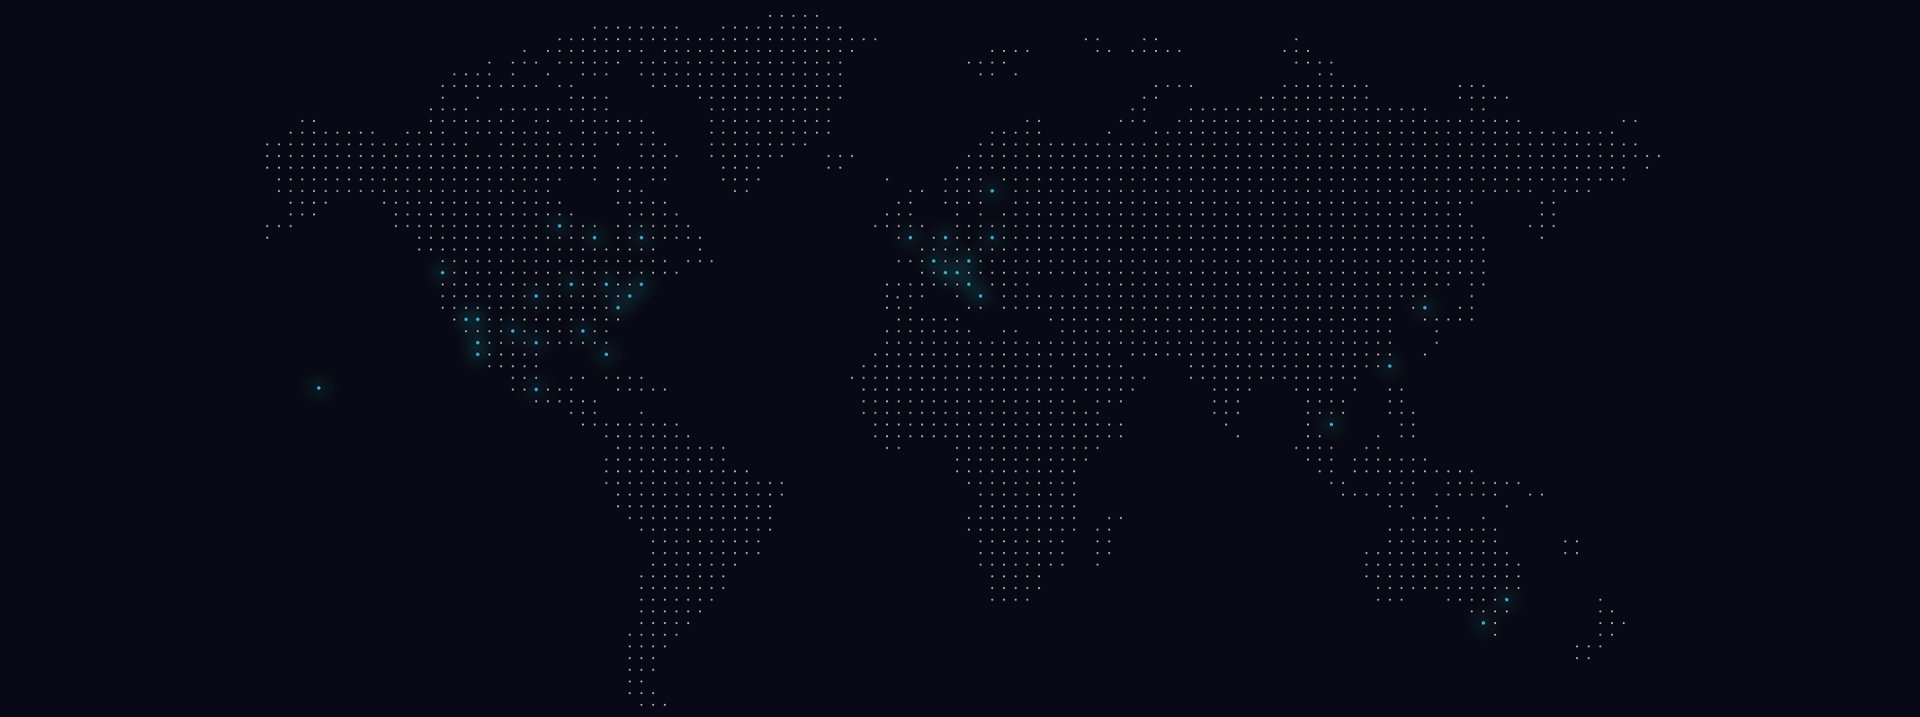
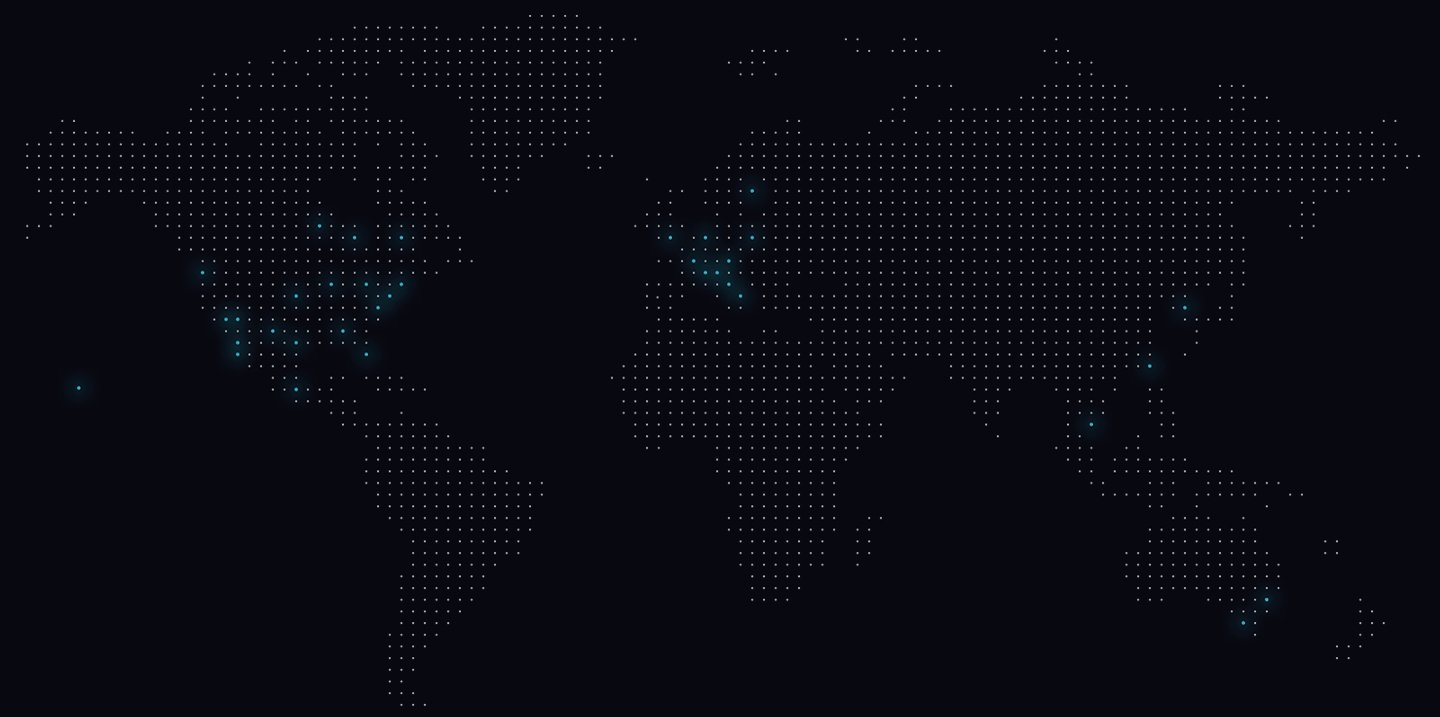
After using the SASS

diff --git a/src/index.html b/src/index.html
@@ -7,7 +7,7 @@
     <link rel="stylesheet" href="css/bootstrap-grid.min.css">
     <link rel="stylesheet" href="css/bootstrap-reboot.min.css">
     <link rel="stylesheet" href="css/fonts.css">
-    <link rel="stylesheet" href="css/style.css">
+    <link rel="stylesheet" href="css/style.min.css">
 </head>
 <body>
    <header>
@@ -70,10 +70,8 @@
    </section>
    <section class="reasons">
         <div class="container">
-            <div class="advantages">
-                <h2 class="advantages_header">преимущества</h2>
-            </div>
-            <h2 class="reasons_header">8 причин начать работать с нами</h2>
+            <div class="label">преимущества</div>
+            <div class="header">8 причин начать работать с нами</div>
             <div class="row">
                 <div class="col-md-6">
                     <div class="reasons_item">
@@ -162,6 +160,138 @@
                 </div>
             </div>
         </div>
+   </section>
+
+   <section class="app">
+    <div class="container">
+        <div class="label">Возможности</div>
+        <div class="header">мобильное приложение убер</div>
+        <div class="subtitle">Сделайте заказ, совершите поездку и оплатите ее стоимость, используя свой мобильный телефон</div>
+    
+        <div class="row">
+            <div class="col-md-4">
+                <div class="app_item app_item_1">
+                    <div class="app_item_subheader">оформление заказа одним касанием</div>
+                    <div class="app_item_plus"></div>
+                </div>
+            </div>
+            <div class="col-md-4">
+                <div class="app_item app_item_2">
+                    <div class="app_item_subheader">надежная подача</div>
+                    <div class="app_item_plus"></div>
+                </div>
+            </div>
+            <div class="col-md-4">
+                <div class="app_item app_item_3">
+                    <div class="app_item_subheader">прозрачные цены</div>
+                    <div class="app_item_plus"></div>
+                </div>
+            </div>
+       
+            <div class="col-md-4">
+                <div class="app_item app_item_4">
+                    <div class="app_item_subheader">безналичная оплата</div>
+                    <div class="app_item_plus"></div>
+                </div>
+            </div>
+            <div class="col-md-4">
+                <div class="app_item app_item_5">
+                    <div class="app_item_subheader">обратная связь</div>
+                    <div class="app_item_plus"></div>
+                </div>
+            </div>
+            <div class="col-md-4">
+                <div class="app_item app_item_6">
+                    <div class="app_item_subheader">разделить стоимость поездки</div>
+                    <div class="app_item_plus"></div>
+                </div>
+            </div>
+        </div>
+    </div>
+   </section>
+
+   <section class="car">
+    <div class="container">
+        <div class="label">Возможности</div>
+        <div class="header">Выбор - отличная штука!</div>
+        <div class="subtitle">Закажите автомобиль, который подходит вам по стилю и бюджету</div>
+        <img src="img/car_bg.png" alt="car" class="car_img">
+        <div class="car_descr">Машины на каждый день. <br>
+            Лучше, быстрее и дешевле, чем такси</div>
+    </div>
+   </section>
+
+   <section class="require">
+    <div class="container">
+        <div class="label">Возможности</div>
+        <div class="header">условия и требования</div> 
+
+        <div class="row">
+                <div class="col-md-6">
+                    <div class="require_block">
+                        <div class="require_title">УСЛОВИЯ: со своим авто:</div>
+                        <ul class="require_list">
+                            <li>Подключаем к системе UBER  под 10%.</li>
+                            <li>Ни каких взносов  0%!</li>
+                            <li>Можем подключать удаленно без приезда в офис</li>
+                            <li>ИП не требуется</li>
+                            <li>Заказы распределяются без учета рейтинга ближайшим водителям</li>
+                            <li>Работа только по безналичному расчету</li>
+                            <li>Деньги перечисляем на карту водителю или наличными в офисе</li>
+                        </ul>
+                        <div class="require_descr">
+                            В день заработок составляет 7000-12000р + бонус 3000т рублей
+                        </div>
+                    </div>
+            </div>
+                <div class="col-md-6">
+                    <div class="require_block">
+                        <div class="require_title">УСЛОВИЯ: на авто компании:</div>
+                        <ul class="require_list">
+                            <li>Предоставляем авто без залога</li>
+                            <li>Без ежедневных выплат по аренде</li>
+                            <li>Среда пятница и суббота работа на компанию остальные дни вы работаете на себя</li>
+                        </ul>
+                    </div>
+                </div> 
+                <div class="col-md-6">
+                    <div class="require_block require_block_nmb warning">
+                        <div class="require_title">ТРЕБОВАНИЕ:</div>
+                        <ul class="require_list">
+                            <li>Наличие автомобиля без рекламы</li>
+                            <li>Автомобиль не должен быть желтый и не с желтыми номерами</li>
+                            <li>Машина не старше 3 лет</li>
+                            <li>Стаж вождения не менее 3 лет</li>
+                            <li>Дивайс на системе андроид 4.0и выше(самсунг)</li>
+                        </ul>
+                    </div>
+                </div>
+                <div class="col-md-6">
+                    <div class="require_block require_block_nmb warning">
+                        <div class="require_title">ДОКУМЕНТЫ:</div>
+                        <ul class="require_list">
+                            <li>Права 2 стороны</li>
+                            <li>Паспорт лицевая сторона</li>
+                            <li>СтС</li>
+                            <li>Лицензия( если есть)</li>
+                            <li>Номер телефона</li>
+                            <li>Номер карты для перечисления денег(указать в письме)!</li>
+                        </ul>
+                    </div>
+                </div>
+            </div>
+        </div>
+   </section>
+
+   <section class="map">
+    <div class="container">
+                <div class="label">города</div>
+                <div class="header">По всему миру</div>
+                <div class="subtitle">Мы в вашем городе и по всему миру</div>
+        <img src="img/map_bg.jpg" alt="map" class="map_img">
+        <a href="#" class="map_a">посмотреть все города</a>
+    </div>
+    </div>
    </section>
 </body>
 </html> 
